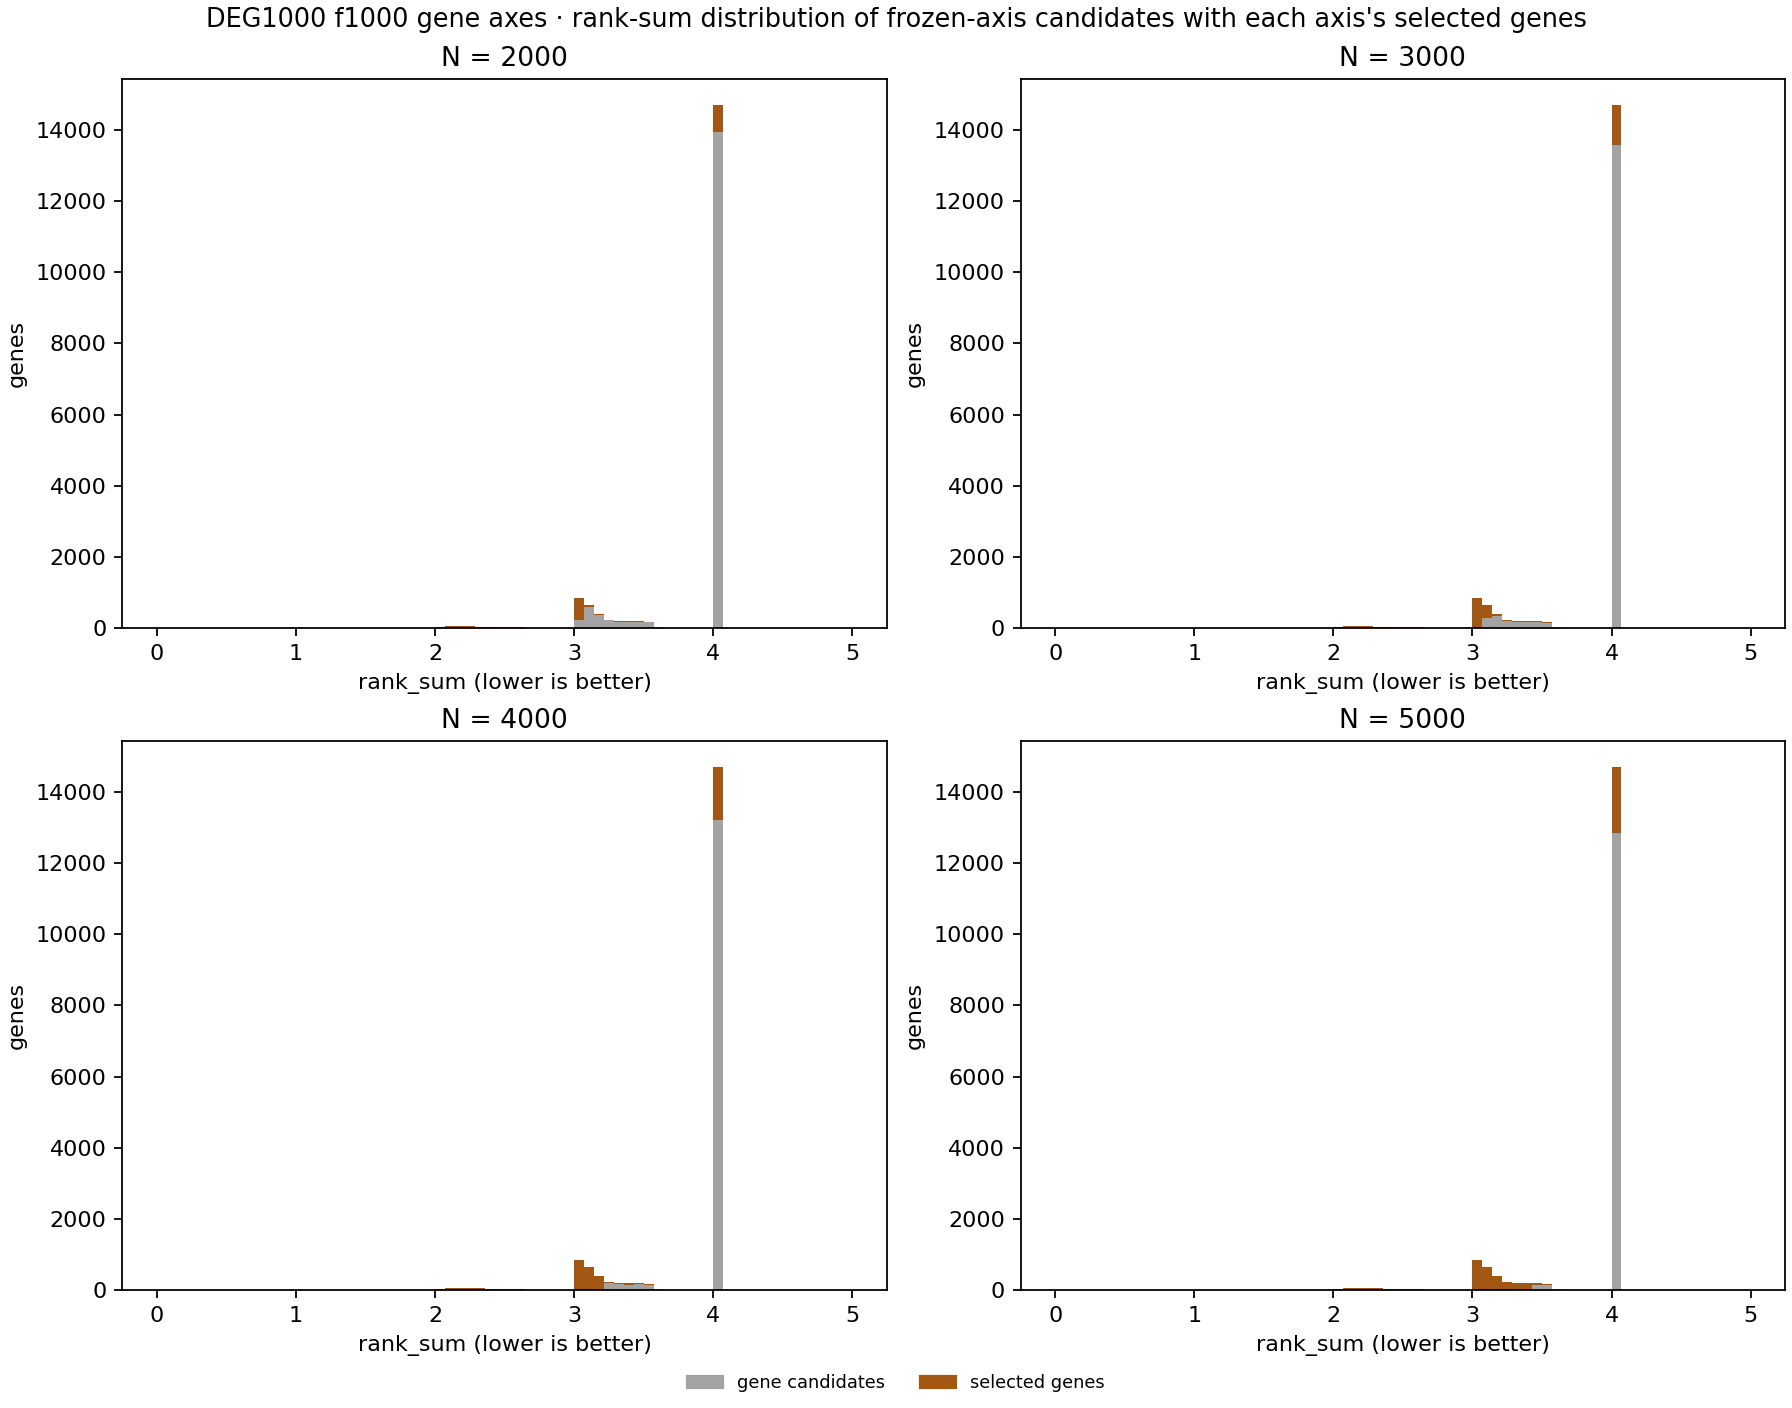
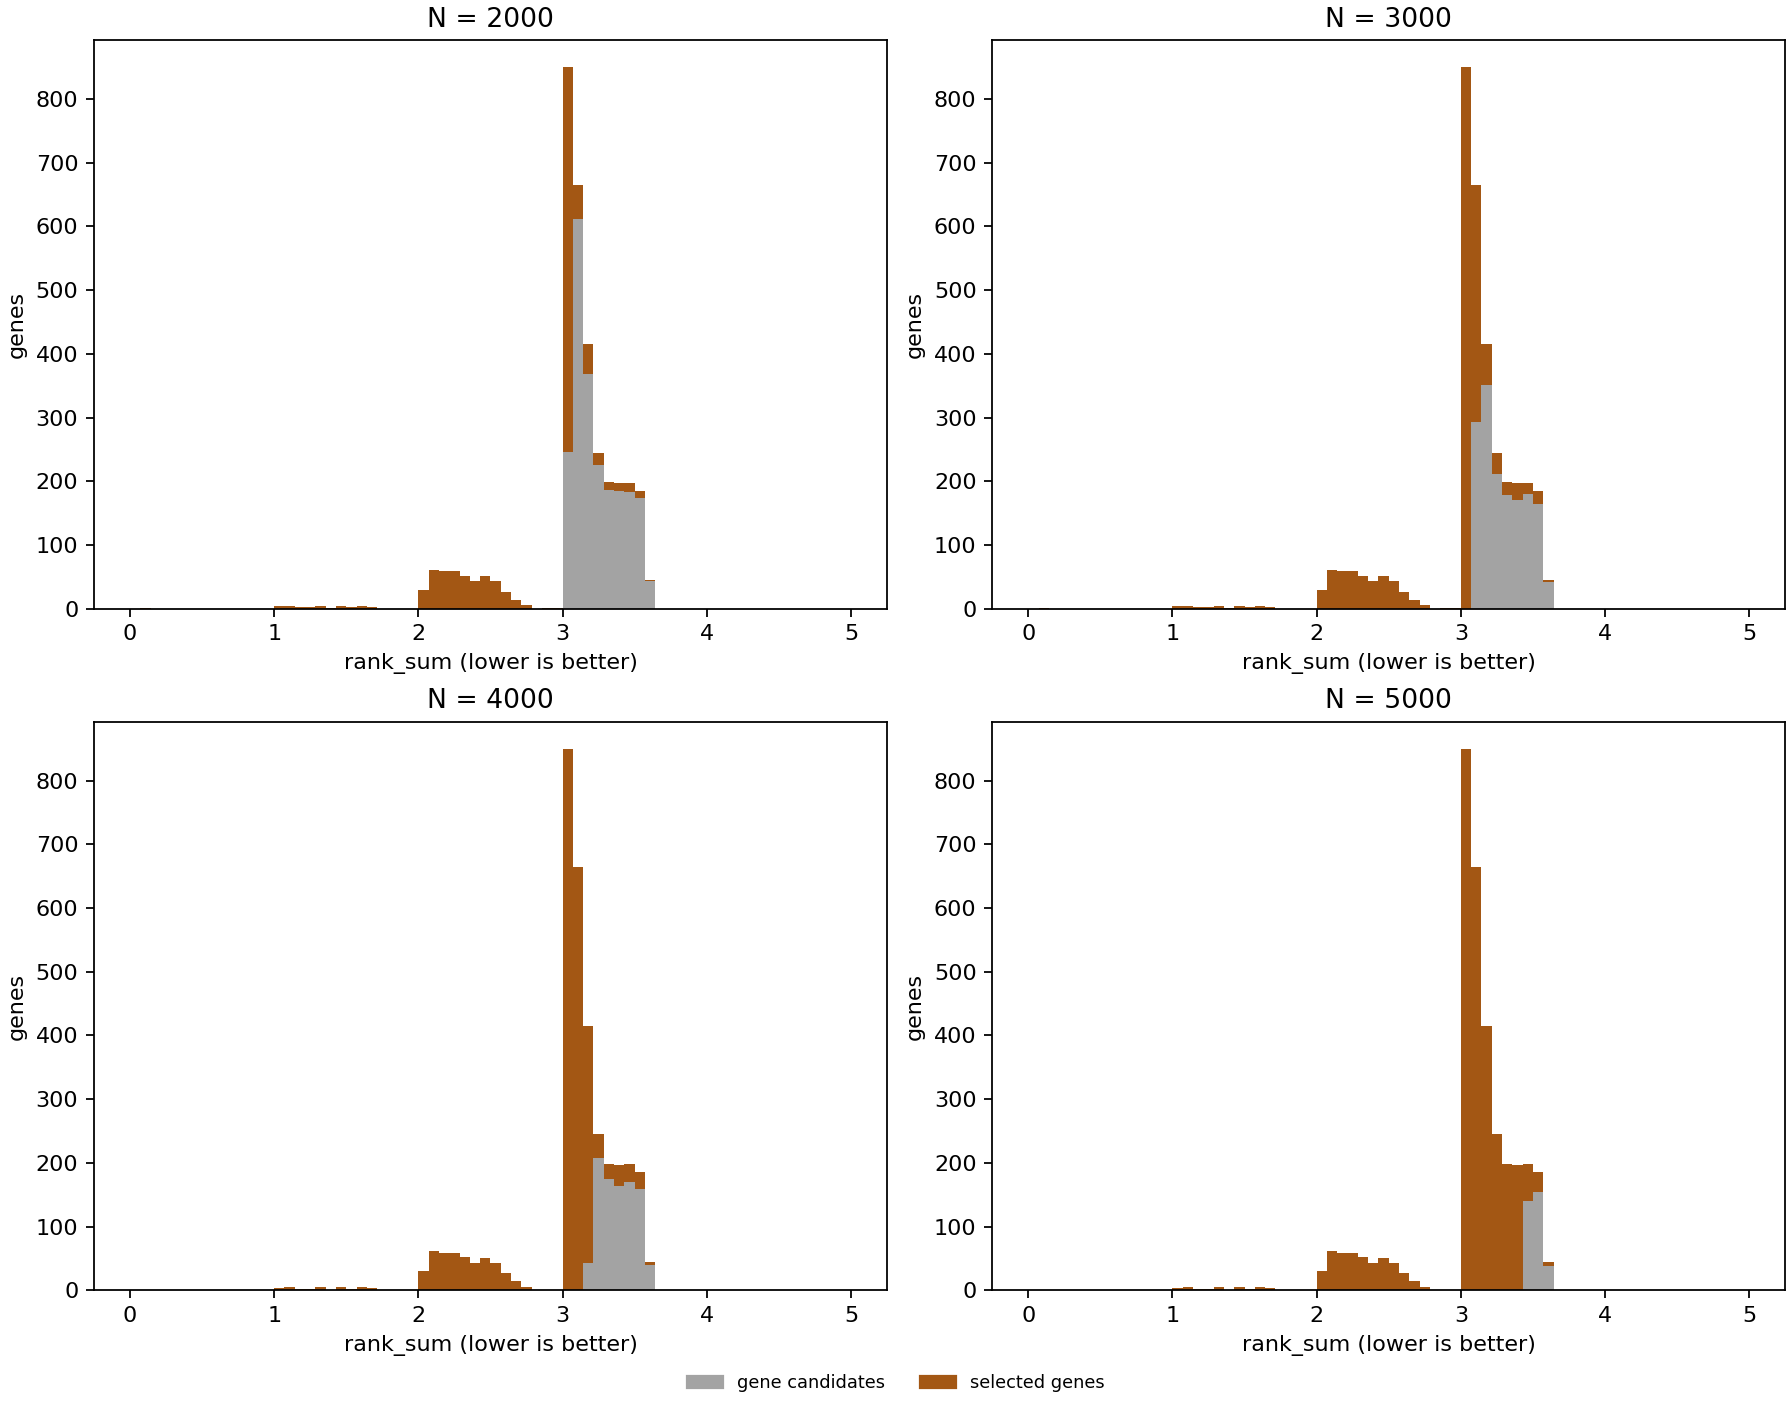
Limit gene-axis histogram to disease DEG1000 union and remove title

diff --git a/stage2/01_bases/figure/script/render_gene_axis_rank_sum_histogram.py b/stage2/01_bases/figure/script/render_gene_axis_rank_sum_histogram.py
@@ -5,7 +5,7 @@ This is a publication script, not scientific code: it reads only
 ``figure/data/gene_axis_rank_sum_histogram.csv`` and writes the PNG. It never
 opens ``output/`` products, matrices, checkpoints or truth, and it recomputes no
 metric. The CSV carries every plotted value -- the candidate histogram over all
-frozen-axis candidates, one panel per released axis, and how many of each bin's
+the union of disease DEG1000 genes, one panel per released axis, and how many of each bin's
 candidates that axis selects -- so this renderer needs no other input.
 
     python3 stage2/01_bases/figure/script/render_gene_axis_rank_sum_histogram.py \
@@ -116,7 +116,7 @@ def load(path):
         if counts <= 0:
             raise ValueError('the candidate histogram is empty')
         selected = sum(chosen for _, _, _, chosen in histograms[panel['panel']])
-        if selected != panel['axis']:
+        if selected > panel['axis']:
             raise ValueError(f"panel {panel['panel']} does not select exactly N genes")
     return figures[0]['title'], panels, histograms
 
@@ -148,7 +148,6 @@ def render(title, panels, histograms, output):
             axis.set(title=panel['panel_title'], xlabel=X_LABEL, ylabel=Y_LABEL)
         for unused in list(axes.flat)[len(panels):]:
             unused.set_visible(False)
-        figure.suptitle(title, fontsize=11.5)
         figure.legend(handles=[Patch(color=CANDIDATE_COLOR, label=CANDIDATE_LABEL),
                                Patch(color=SELECTED_COLOR, label=SELECTED_LABEL)],
                       frameon=False, fontsize=8, loc='outside lower center', ncol=2)

diff --git a/stage2/01_bases/execution/build_gene_axis.py b/stage2/01_bases/execution/build_gene_axis.py
@@ -517,7 +517,10 @@ def figure_rows(source, axis_sizes):
     ``rank_sum`` bin and are identical in every panel; ``selected`` says how many
     of that bin's candidates the panel's axis keeps (``sum(selected) == N``).
     """
-    histogram = source['histogram']
+    eligible = source['level_two']['f1000'] > 0
+    histogram = source['histogram'].copy()
+    edges_all = np.append(histogram.bin_left.to_numpy(), histogram.bin_right.iloc[-1])
+    histogram['count'] = np.histogram(source['level_two']['rank_sum'][eligible], bins=edges_all)[0]
     edges = np.append(histogram['bin_left'].to_numpy(dtype=float),
                       float(histogram['bin_right'].iloc[-1]))
     n_bins = len(histogram)
@@ -527,6 +530,7 @@ def figure_rows(source, axis_sizes):
         size = int(size)
         panel = chr(ord('a') + index)
         genes = source['axes'][size]
+        genes = genes[eligible[genes]]
         bins = np.clip(np.searchsorted(edges, rank_sum[genes], side='right') - 1,
                        0, n_bins - 1)
         selected = np.bincount(bins, minlength=n_bins)
